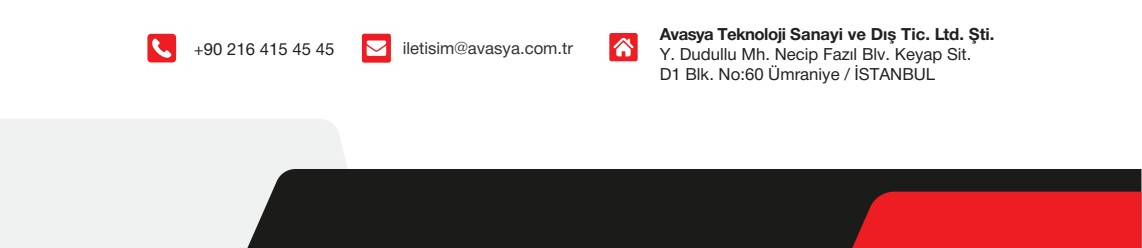
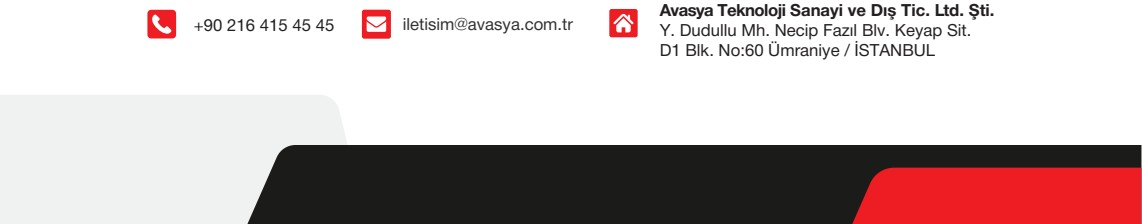
Header/footer fit fixed

diff --git a/src/components/proposal-preview/PageShell.tsx b/src/components/proposal-preview/PageShell.tsx
@@ -24,7 +24,7 @@ export default function PageShell({ dataPage, date, children }: Props) {
       }}
     >
       {/* Header */}
-      <div style={{ position: "relative", width: "100%", height: `${HEADER_HEIGHT}px` }}>
+      <div style={{ position: "relative", width: "100%", height: `${HEADER_HEIGHT}px`, lineHeight: 0 }}>
         <img
           src={headerBanner}
           alt=""
@@ -33,18 +33,18 @@ export default function PageShell({ dataPage, date, children }: Props) {
         <div
           style={{
             position: "absolute",
-            bottom: "12px",
+            bottom: "10px",
             right: "48px",
             fontSize: "11px",
             fontWeight: 600,
             color: "hsl(0 0% 0%)",
+            lineHeight: 1.2,
           }}
         >
           Tarih : {date}
         </div>
       </div>
 
-      {/* Content */}
       <div
         style={{
           width: "100%",
@@ -56,8 +56,7 @@ export default function PageShell({ dataPage, date, children }: Props) {
         {children}
       </div>
 
-      {/* Footer */}
-      <div style={{ width: "100%", height: `${FOOTER_HEIGHT}px` }}>
+      <div style={{ width: "100%", height: `${FOOTER_HEIGHT}px`, lineHeight: 0 }}>
         <img
           src={footerBanner}
           alt=""

diff --git a/src/lib/proposal-layout.ts b/src/lib/proposal-layout.ts
@@ -1,10 +1,10 @@
 import type { LineItem } from "@/types/proposal";
 
 export const CONTENT_PAGE_WIDTH = 794;
-export const HEADER_HEIGHT = 120;
-export const FOOTER_HEIGHT = 120;
+export const HEADER_HEIGHT = 98;
+export const FOOTER_HEIGHT = 156;
 export const FULL_PAGE_HEIGHT = 1123; // A4 ratio at 794px width
-export const CONTENT_PAGE_HEIGHT = FULL_PAGE_HEIGHT - HEADER_HEIGHT - FOOTER_HEIGHT; // 883
+export const CONTENT_PAGE_HEIGHT = FULL_PAGE_HEIGHT - HEADER_HEIGHT - FOOTER_HEIGHT; // 869
 
 const KIT_LIST_BASE = {
   pagePaddingX: 32,
